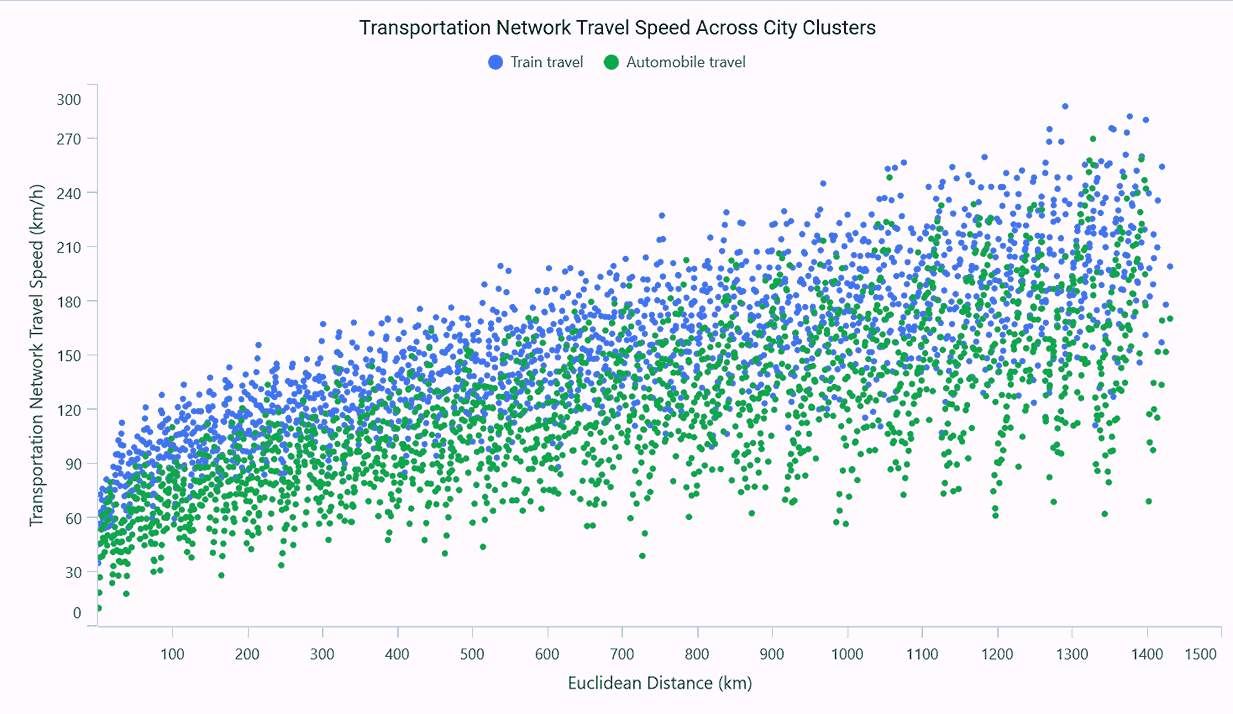
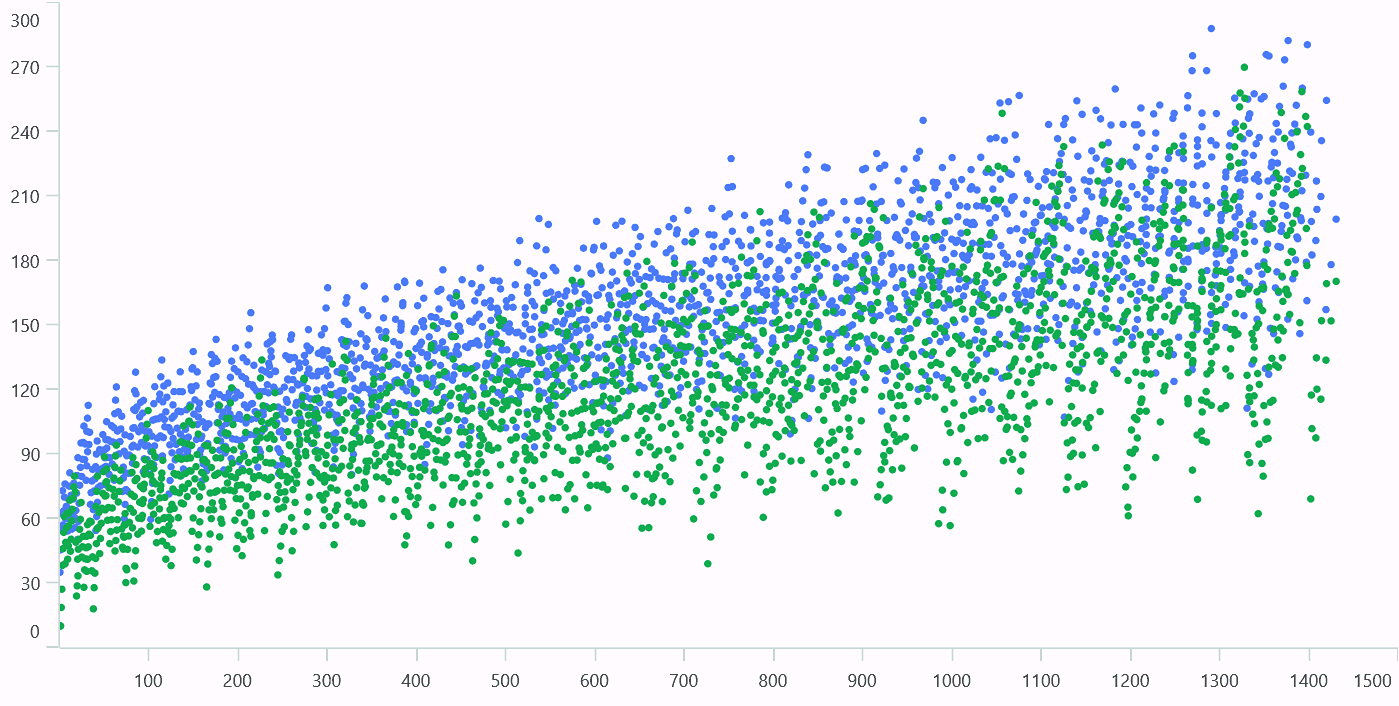
updated image

diff --git a/maui-toolkit/Cartesian-Charts/FastScatter.md b/maui-toolkit/Cartesian-Charts/FastScatter.md
@@ -31,13 +31,11 @@ N> The Cartesian chart has [Series](https://help.syncfusion.com/cr/maui-toolkit/
 
       <chart:FastScatterSeries ItemsSource="{Binding Data1}" 
                                XBindingPath="XValue" 
-                               YBindingPath="YValue" 
-                               Label="Train travel"/>
+                               YBindingPath="YValue" />
 
       <chart:FastScatterSeries ItemsSource="{Binding Data2}" 
                                XBindingPath="XValue" 
-                               YBindingPath="YValue" 
-                               Label="Automobile travel"/>
+                               YBindingPath="YValue" />
 
 </chart:SfCartesianChart>
 
@@ -58,7 +56,6 @@ FastScatterSeries scatterSeries1 = new FastScatterSeries
     ItemsSource = new ViewModel().Data1,
     XBindingPath = "XValue",
     YBindingPath = "YValue",
-    Label = "Train travel"
 };
 
 FastScatterSeries scatterSeries2 = new FastScatterSeries
@@ -66,7 +63,6 @@ FastScatterSeries scatterSeries2 = new FastScatterSeries
     ItemsSource = new ViewModel().Data2,
     XBindingPath = "XValue",
     YBindingPath = "XValue",
-    Label = "Automobile travel"
 };
 
 chart.Series.Add(scatterSeries1);
